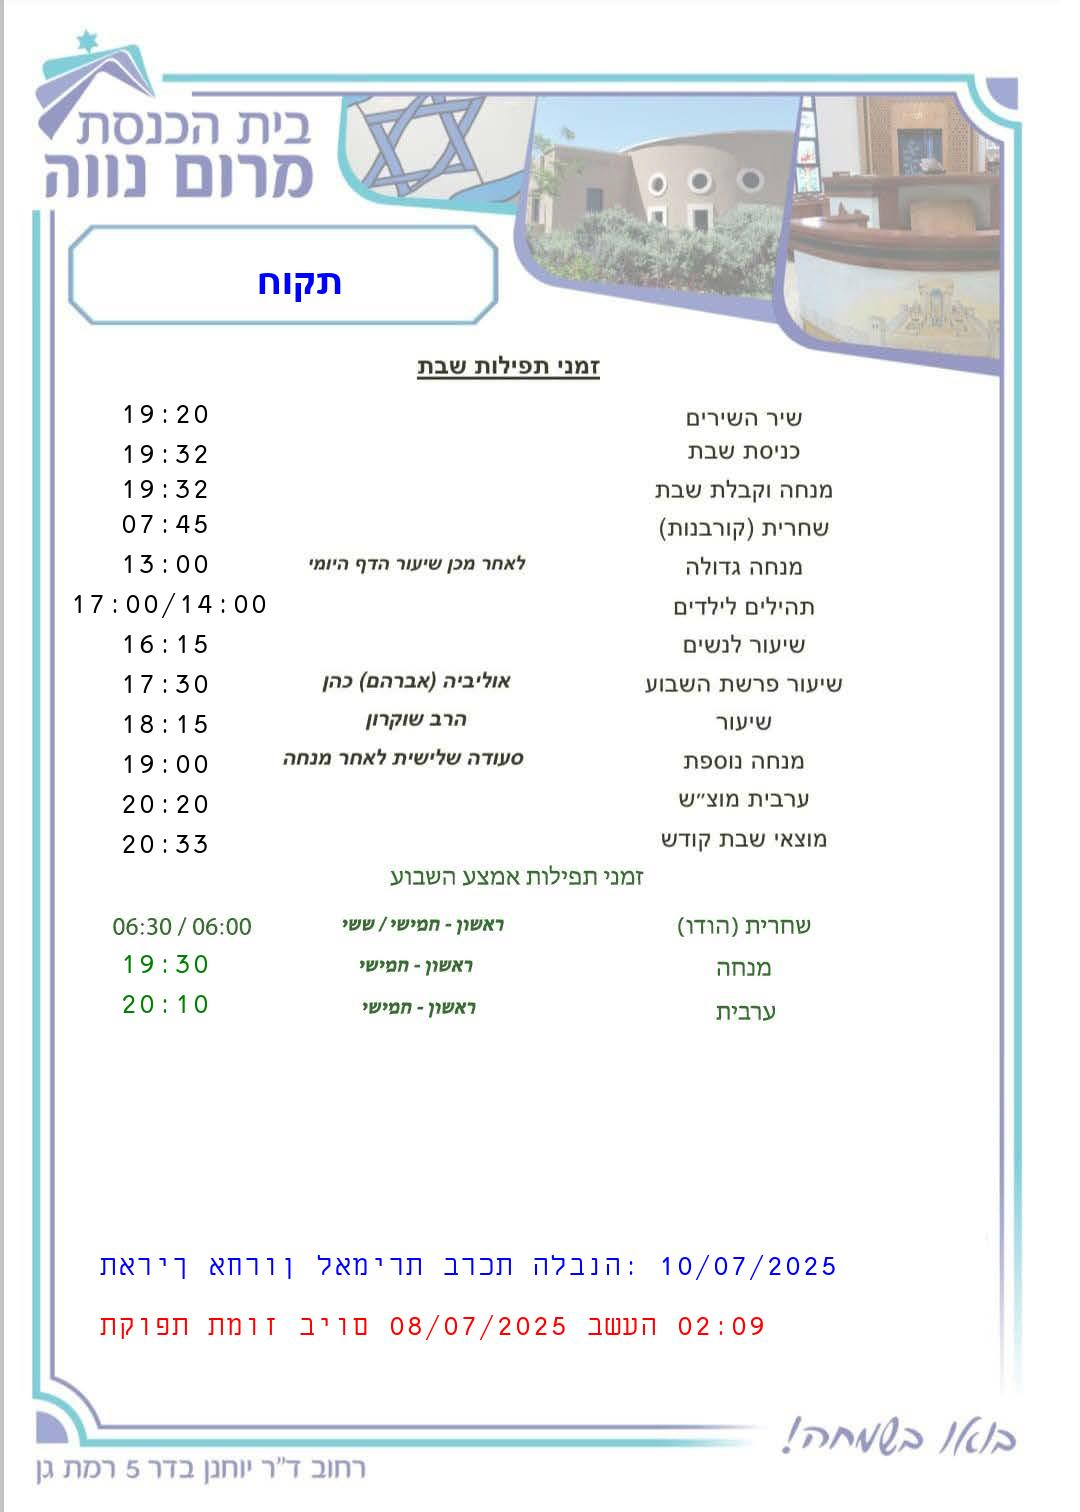
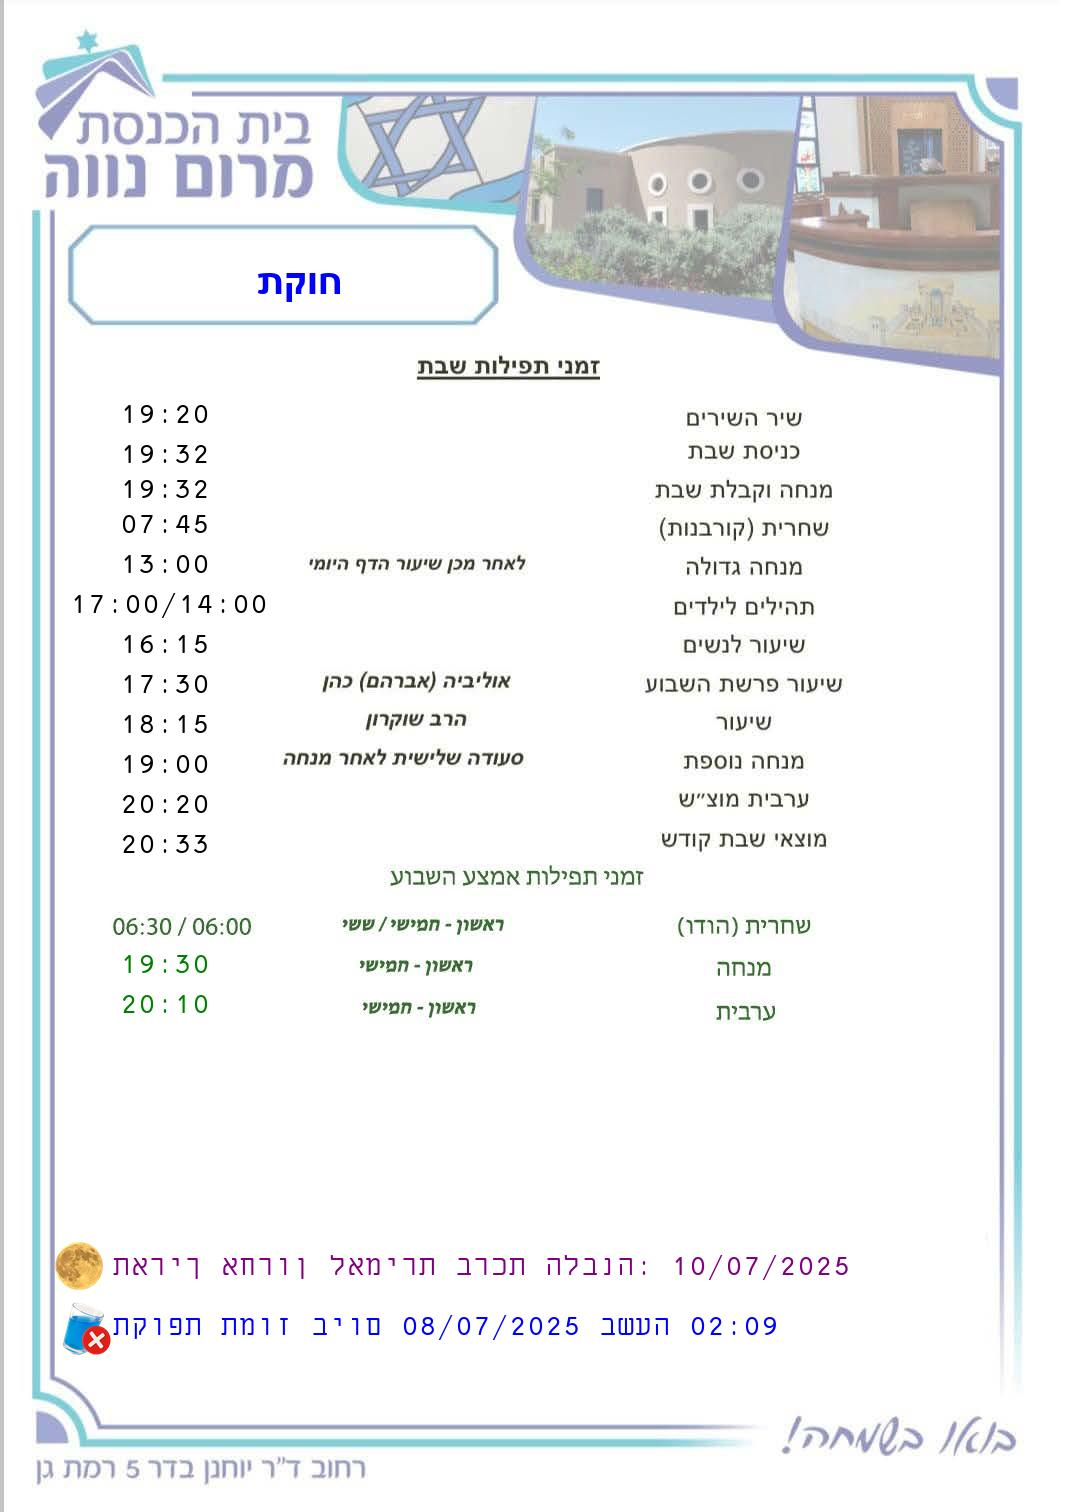
icones

diff --git a/horaires_shabbat.py b/horaires_shabbat.py
@@ -514,13 +514,28 @@ class ShabbatScheduleGenerator:
                 rc_template = self.template_path.parent / "template_rosh_hodesh.jpg"
                 if rc_template.exists():
                     template = rc_template
+
+            # Définir le chemin d'accès aux icônes (UNE SEULE FOIS)
+            icon_path = self.template_path.parent / "resources"
+
             with Image.open(template) as img:
                 try:
-                    img_w, img_h = img.size
+                    img_w, img_h = img.size # Définir img_w et img_h ici
                     draw = ImageDraw.Draw(img)
                     font = self._font
                     bold = self._arial_bold_font
                     time_x = 120
+
+                    # Charger les icônes (UNE SEULE FOIS, GÉRER LES EXCEPTIONS)
+                    first_moon_icon = None
+                    full_moon_icon = None
+                    eau_icon = None
+                    try:
+                        first_moon_icon = Image.open(icon_path / "first_moon.png").convert("RGBA").resize((48, 48), Image.LANCZOS)
+                        full_moon_icon = Image.open(icon_path / "full_moon.png").convert("RGBA").resize((48, 48), Image.LANCZOS)
+                        eau_icon = Image.open(icon_path / "eau.png").resize((64, 64), Image.LANCZOS)
+                    except FileNotFoundError as e:
+                        print(f"❌ Erreur: Une ou plusieurs icônes sont introuvables: {e}")
 
                     # Affichage des horaires
                     time_positions = [
@@ -550,43 +565,39 @@ class ShabbatScheduleGenerator:
                     draw.text((time_x, 950), self.format_time(times.get('mincha_hol')), fill="green", font=font)
                     draw.text((time_x, 990), self.format_time(times.get('arvit_hol')), fill="green", font=font)
                     reversed_parasha = reverse_hebrew_text(parasha_hebrew)
-                    draw.text((300, 280), parasha_hebrew, fill="blue", font=bold, anchor="mm")
+                    draw.text((300, 280), reversed_parasha, fill="blue", font=bold, anchor="mm")
 
-                    if is_mevarchim:
-                        molad_str = get_next_month_molad(shabbat_date)
-                        draw.text((200, img_h - 300), molad_str, fill="blue", font=font)
-                        rc_days = get_rosh_chodesh_days_for_next_month(shabbat_date)
-                        rosh_lines = []
-                        for gdate, m, y, d in rc_days:
-                            day_name_he = get_weekday_name_hebrew(gdate)
-                            month_name = get_jewish_month_name_hebrew(m, y)
-                            rosh_lines.append(
-                                f"ראש חודש: יום {day_name_he} {gdate.strftime('%d/%m/%Y')} {month_name} ({d})"
-                            )
-                        for i, rc_line in enumerate(rosh_lines):
-                            draw.text(
-                                (200, img_h - 260 + 40 * i),
-                                rc_line,
-                                fill="blue",
-                                font=font
-                            )
                     if not is_mevarchim:
                         try:
                             previous_rosh = find_previous_rosh_chodesh(shabbat_date)
                             molad_dt, latest_kiddush_levana = calculate_last_kiddush_levana_date(previous_rosh)
                             start_kiddush_levana = molad_dt + timedelta(days=6)
                             shabbat_date_only = shabbat_date.date()
+                            y_start = img_h - 320
+                            y_end = img_h - 260
+
                             if shabbat_date_only < start_kiddush_levana.date():
-                                msg_start = f"תאריך התחלה לאמירת ברכת הלבנה: {start_kiddush_levana.strftime('%d/%m/%Y')}"
-                                msg_end = f"תאריך אחרון לאמירת ברכת הלבנה: {latest_kiddush_levana.strftime('%d/%m/%Y')}"
-                                draw.text((100, img_h - 300), msg_start, fill="blue", font=font)
-                                draw.text((100, img_h - 260), msg_end, fill="blue", font=font)
+                                msg_start = f"תאריך תחילת אמירה ברכת הלבנה: {start_kiddush_levana.strftime('%d/%m/%Y')}"
+                                msg_end = f"תאריך סיום אמירה ברכת הלבנה: {latest_kiddush_levana.strftime('%d/%m/%Y')}"
+
+                                # Affichage de l'icône first_moon
+                                if first_moon_icon:
+                                    img.paste(first_moon_icon, (55, y_start - 10), first_moon_icon)
+                                draw.text((55 + 48 + 10, y_start), msg_start, fill="purple", font=font)
+
+                                # Affichage de l'icône full_moon
+                                if full_moon_icon:
+                                    img.paste(full_moon_icon, (55, y_end - 10), full_moon_icon)
+                                draw.text((55 + 48 + 10, y_end), msg_end, fill="purple", font=font)
+
                             elif start_kiddush_levana.date() <= shabbat_date_only <= latest_kiddush_levana.date():
                                 msg_end = f"תאריך אחרון לאמירת ברכת הלבנה: {latest_kiddush_levana.strftime('%d/%m/%Y')}"
-                                draw.text((100, img_h - 260), msg_end, fill="blue", font=font)
+                                if full_moon_icon:
+                                    img.paste(full_moon_icon, (55, y_end - 10), full_moon_icon)
+                                draw.text((55 + 48 + 10, y_end), msg_end, fill="purple", font=font)
                             else:
                                 msg_ended = "התקופה של ברכת הלבנה הסתיימה."
-                                draw.text((100, img_h - 260), msg_ended, fill="red", font=font)
+                                draw.text((100, y_end), msg_ended, fill="red", font=font)
                         except Exception as e:
                             print(f"❌ Erreur lors de l'affichage de la Birkat Halevana : {e}")
 
@@ -603,11 +614,15 @@ class ShabbatScheduleGenerator:
                             month_eng = match.group(1)
                             hebrew_month = name_map.get(month_eng, month_eng)
                         tekufa_msg = f"תקופת {hebrew_month} ביום {dt.strftime('%d/%m/%Y')} בשעה {dt.strftime('%H:%M')}"
-                        draw.text((100, img_h - 200), tekufa_msg, fill="red", font=font)
+
+                        if eau_icon:
+                            img.paste(eau_icon, (55, img_h - 200 - 15), eau_icon)
+                        draw.text((55 + 48 + 10, img_h - 200), tekufa_msg, fill="blue", font=font)
 
                     safe_parasha = self.sanitize_filename(parasha)
                     output_filename = f"horaires_{safe_parasha}.jpeg"
                     output_path = self.output_dir / output_filename
+                    print(f"✅ Image sauvegardée ici : {output_path}") # Ajout d'une instruction de débogage
                     img.save(str(output_path))
                     latest = self.output_dir / "latest-schedule.jpg"
                     if latest.exists():
